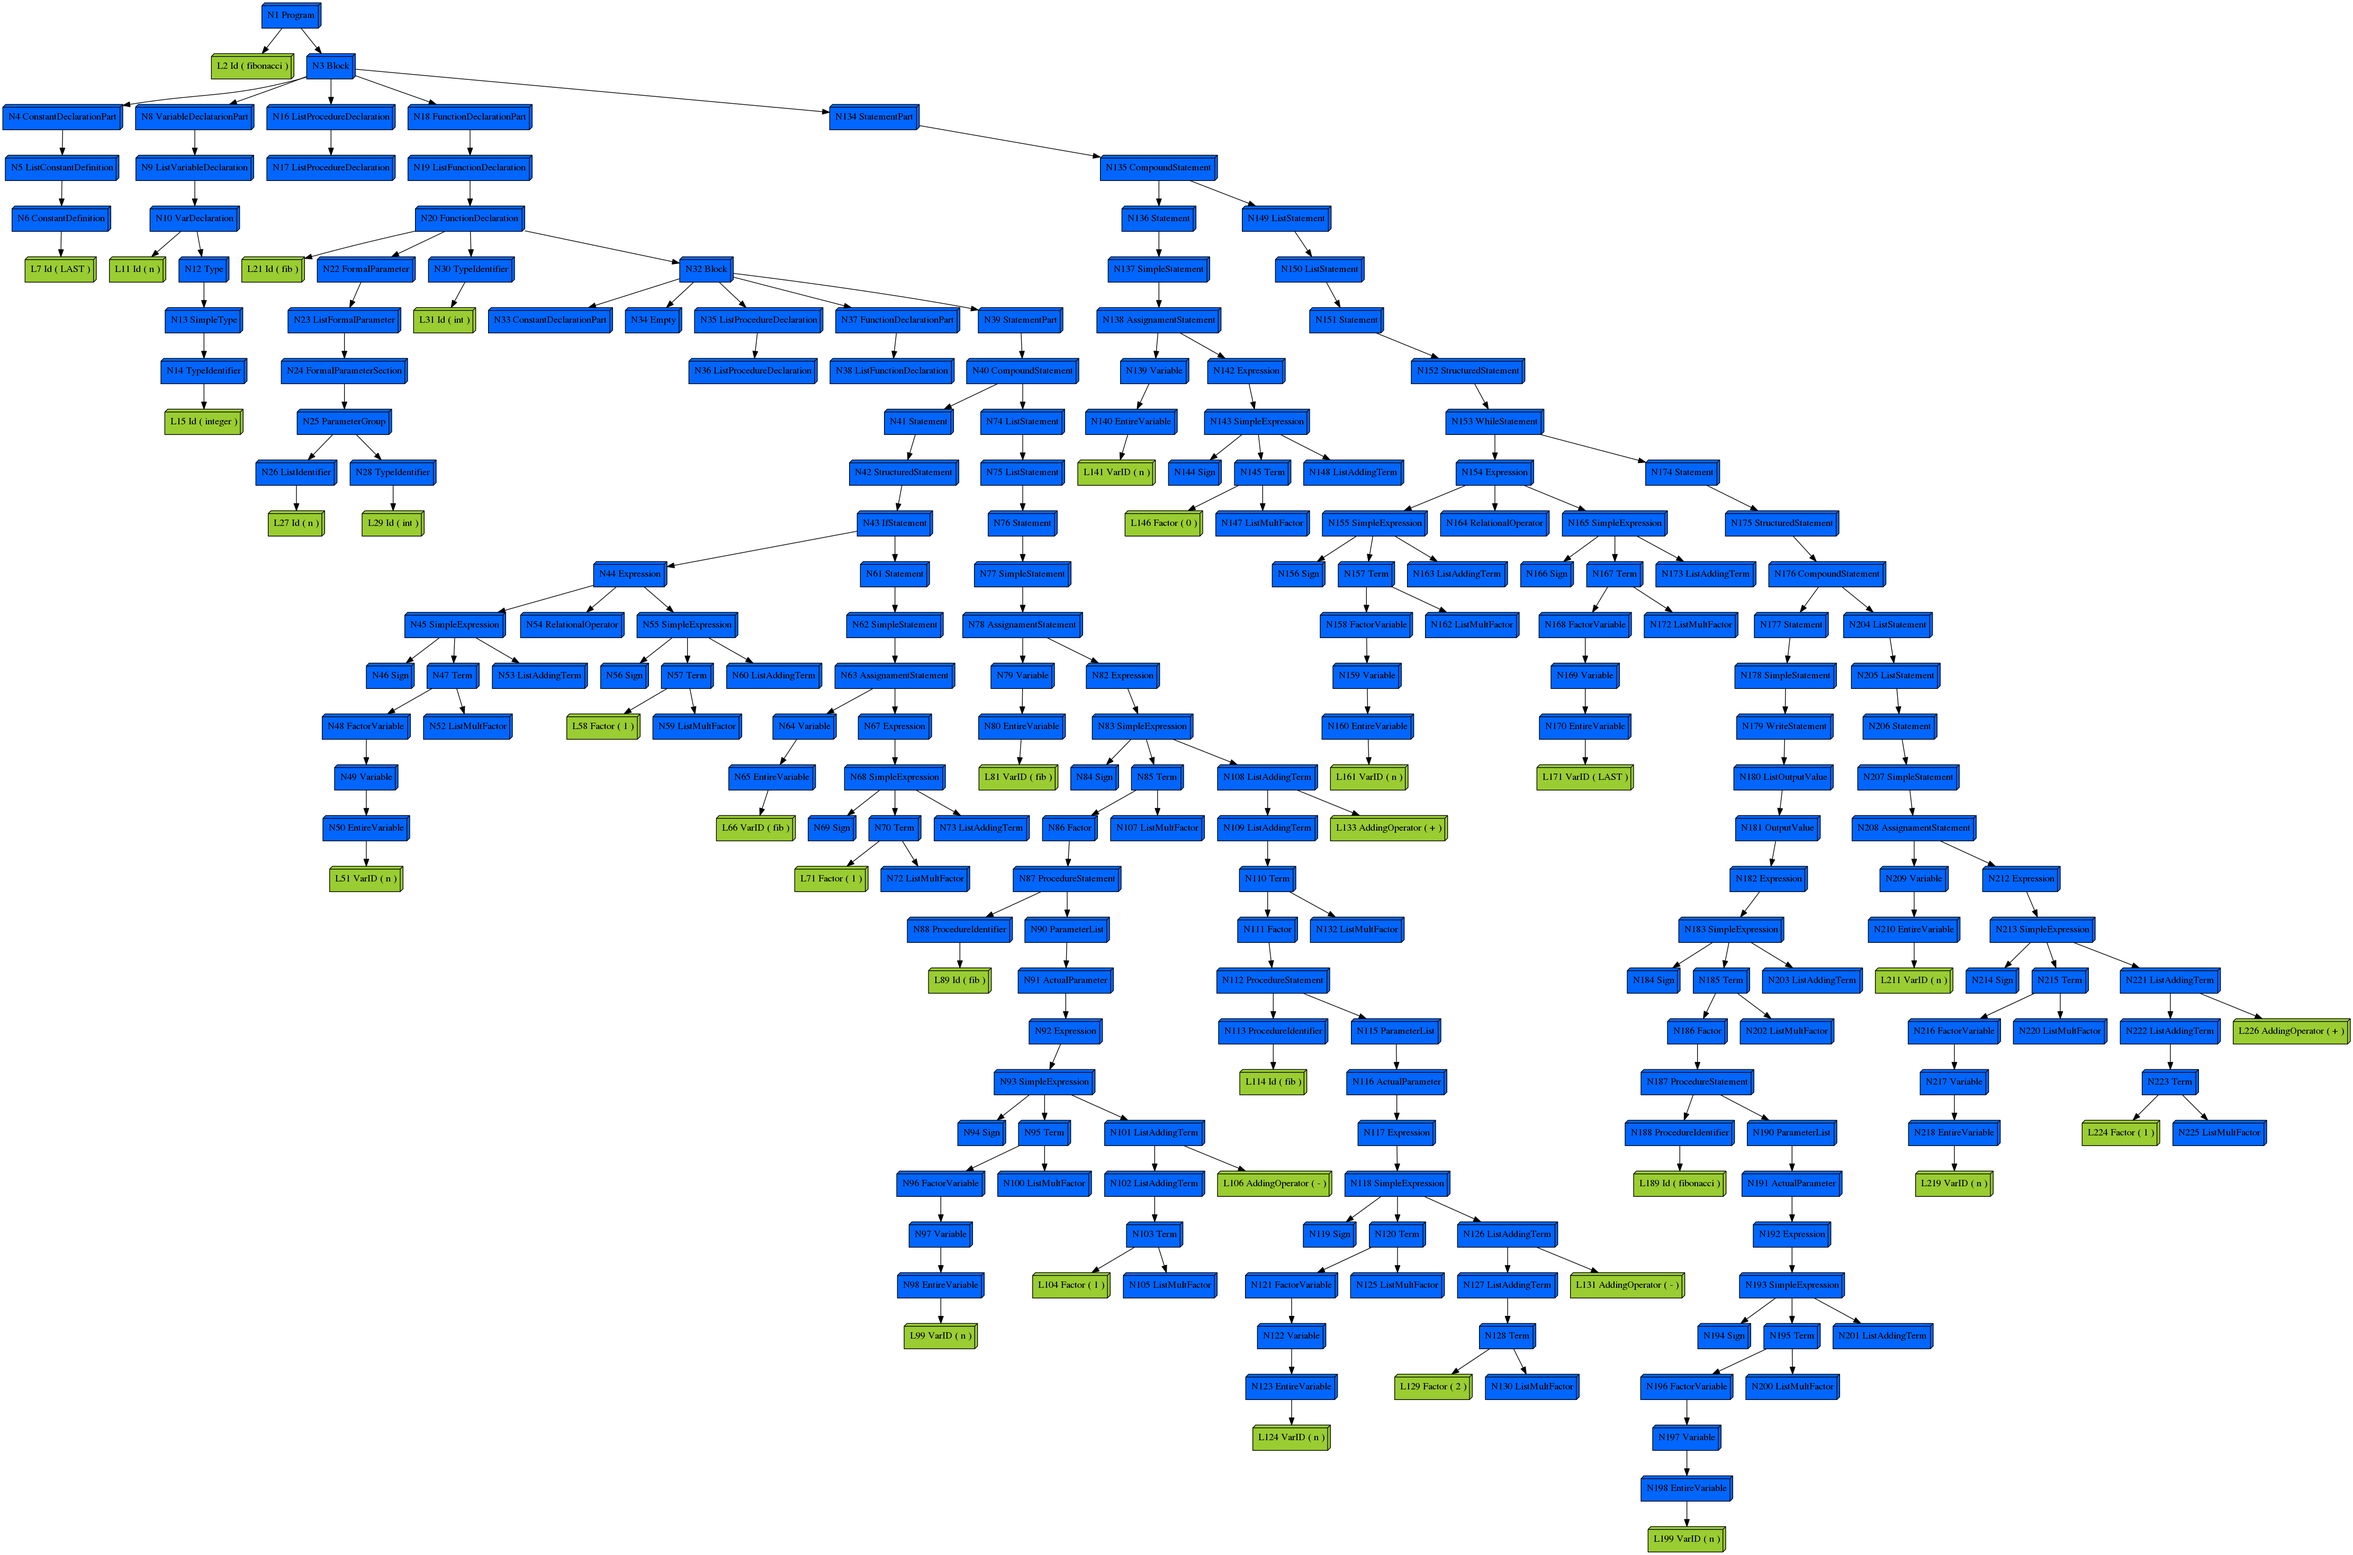
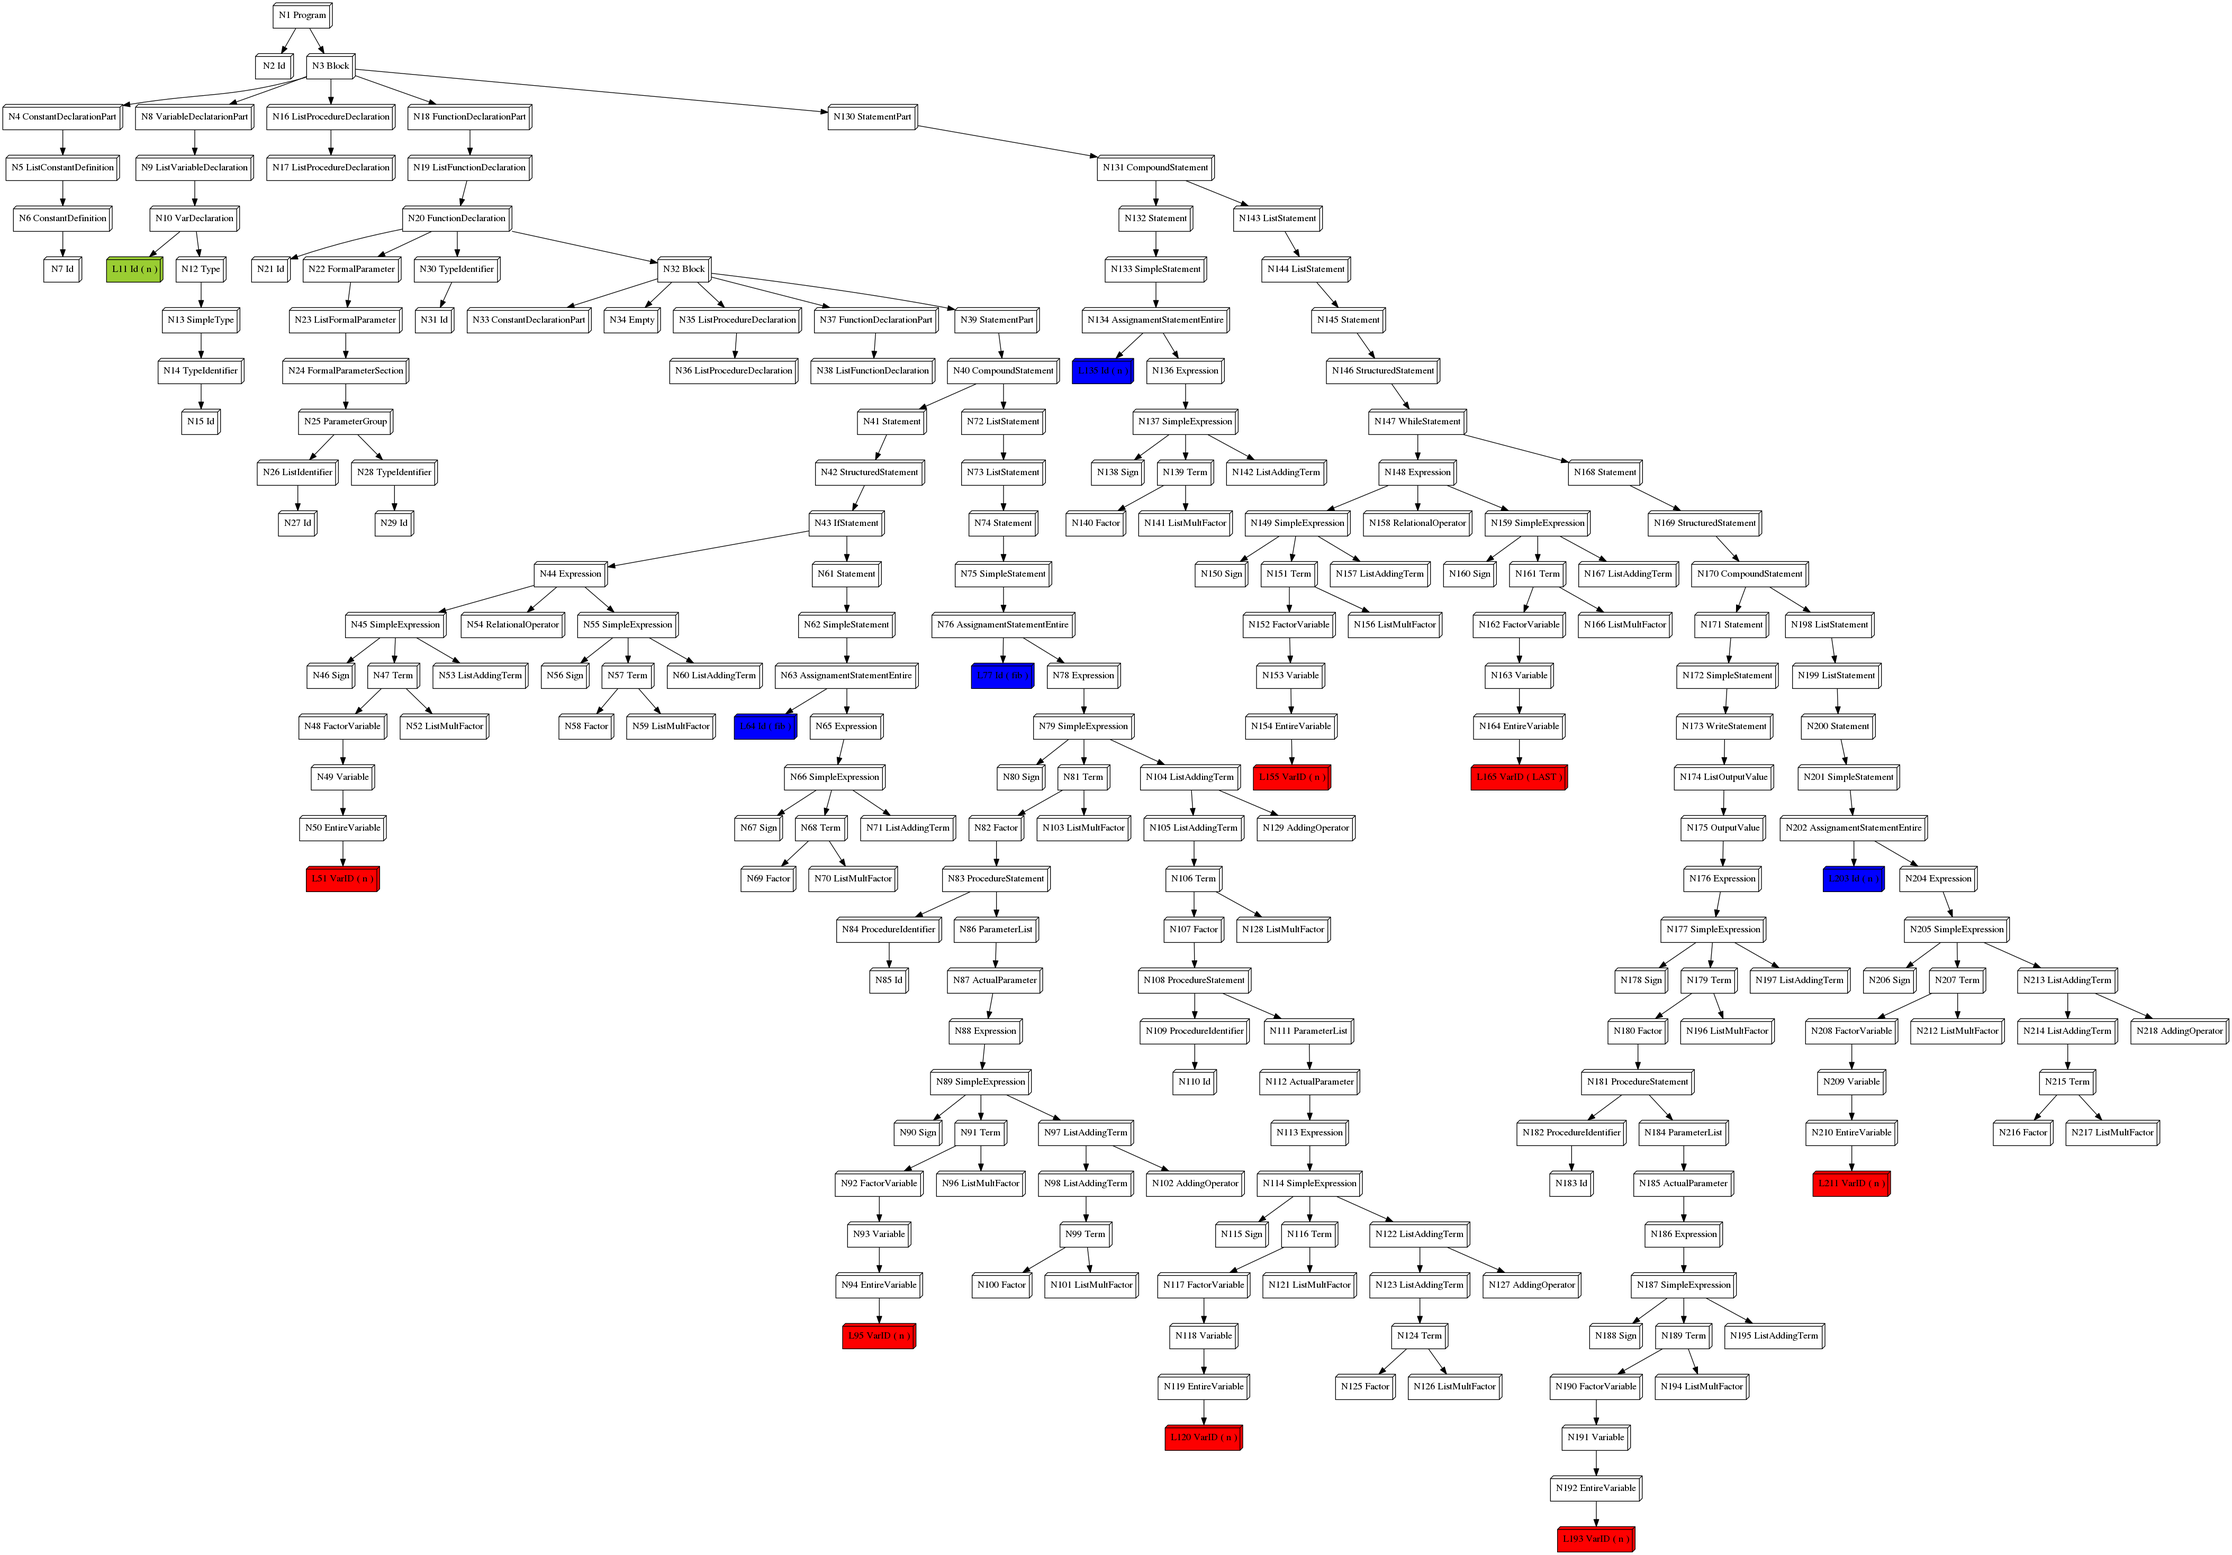
Avances en AST

Changed region(s): [[0.0, 0.0, 1.0, 1.0], [0.3417, 0.0619, 0.4038, 0.0929]]

diff --git a/parser.py b/parser.py
@@ -75,6 +75,7 @@ class PasParser(Parser):
 
     @_('identifier COLON type')
     def var_declaration(self,p):
+        p.identifier._leafDec = True
         return VarDeclaration(p.identifier,p.type,None)
 
     @_('list_identifier COLON type')
@@ -215,9 +216,13 @@ class PasParser(Parser):
     def statement(self,p):
         return Statement(p.structured_statement)
 
-    @_('assignament_statement')
+    @_('assignament_statement_entire')
     def simple_statement(self,p):
-        return SimpleStatement(p.assignament_statement)
+        return SimpleStatement(p.assignament_statement_entire)
+
+    @_('assignament_statement_array')
+    def simple_statement(self,p):
+        return SimpleStatement(p.assignament_statement_array)
 
     @_('procedure_statement')
     def simple_statement(self,p):
@@ -231,9 +236,14 @@ class PasParser(Parser):
     def simple_statement(self,p):
         return SimpleStatement(p.write_statement)
 
-    @_('variable ASSIGN expression')
-    def assignament_statement(self,p):
-        return AssignamentStatement(p.variable,p.expression)
+    @_('identifier ASSIGN expression')
+    def assignament_statement_entire(self,p):
+        p.identifier._leafBlue = True
+        return AssignamentStatementEntire(p.identifier,p.expression)
+
+    @_('indexed_variable ASSIGN expression')
+    def assignament_statement_array(self,p):
+        return AssignamentStatementArray(p.indexed_variable,p.expression)
 
     @_('procedure_identifier LPAR parameter_list RPAR')
     def procedure_statement(self,p):
@@ -363,11 +373,11 @@ class PasParser(Parser):
 
     @_('INTCONST')
     def factor(self,p):
-        return Factor(p[0],_leaf = True)
+        return Factor(p[0])
 
     @_('CHARCONST')
     def factor(self,p):
-        return Factor(p[0],_leaf = True)
+        return Factor(p[0])
 
     @_('LPAR expression RPAR')
     def factor(self,p):
@@ -407,11 +417,11 @@ class PasParser(Parser):
 
     @_('PLUS')
     def sign(self,p):
-        return Sign(p[0],_leaf = True)
+        return Sign(p[0])
 
     @_('MINUS')
     def sign(self,p):
-        return Sign(p[0],_leaf = True)
+        return Sign(p[0])
 
     @_('empty')
     def sign(self,p):
@@ -419,27 +429,27 @@ class PasParser(Parser):
 
     @_('PLUS')
     def adding_operator(self,p):
-        return AddingOperator(p[0],_leaf = True)
+        return AddingOperator(p[0])
 
     @_('MINUS')
     def adding_operator(self,p):
-        return AddingOperator(p[0],_leaf = True)
+        return AddingOperator(p[0])
 
     @_('OR')
     def adding_operator(self,p):
-        return AddingOperator(p[0],_leaf = True)
+        return AddingOperator(p[0])
 
     @_('TIMES')
     def multiplying_operator(self,p):
-        return MultiplyingOperator(p[0],_leaf = True)
+        return MultiplyingOperator(p[0])
 
     @_('DIV')
     def multiplying_operator(self,p):
-        return MultiplyingOperator(p[0],_leaf = True)
+        return MultiplyingOperator(p[0])
 
     @_('AND')
     def multiplying_operator(self,p):
-        return MultiplyingOperator(p[0],_leaf = True)
+        return MultiplyingOperator(p[0])
 
     @_('entire_variable')
     def variable(self,p):
@@ -459,13 +469,14 @@ class PasParser(Parser):
 
     @_('variable_identifier')
     def entire_variable(self,p):
+        p.variable_identifier._leafRed = True
         return EntireVariable(p.variable_identifier)
 
     @_('ID')
     def variable_identifier(self,p):
         line = p.lineno
         index = p.index
-        return VarID(p[0],_leaf = True)
+        return VarID(p[0])
 
     @_('ID')
     def identifier(self,p):

diff --git a/astobjects.py b/astobjects.py
@@ -16,10 +16,10 @@ class AST(object):
         if(len(kwargs)!=0):
             for name,value in kwargs.items():
                 setattr(self,name,value)
-        else:
-            setattr(self,"_leaf",False)
-        if not self._fields:
-            del self
+        setattr(self,"_leafDec",False)
+        setattr(self,"_leafRed",False)
+        setattr(self,"_leafBlue",False)
+        setattr(self,"_leaf",False)
 
     def pprint(self):
         for depth, node in flatten(self):
@@ -144,8 +144,11 @@ class Statement(AST):
 class SimpleStatement(AST):
     _fields = ['statement']
 
-class AssignamentStatement(AST):
+class AssignamentStatementArray(AST):
     _fields = ['variable','expression']
+
+class AssignamentStatementEntire(AST):
+    _fields = ['identifier','expression']
 
 class ProcedureStatement(AST):
     _fields = ['procedure_identifier','parameter_list']
@@ -334,8 +337,14 @@ class DotVisitor():
 
     def visit (self, node):
         if node:
-            if(node._leaf):
-                newname=self.visit_leaf(node)
+            if(node._leafDec):
+                newname = self.visit_leafDec(node)
+            elif(node._leafRed):
+                newname = self.visit_leafRed(node)
+            elif(node._leafBlue):
+                newname = self.visit_leafBlue(node)
+            elif(node._leaf):
+                newname = self.visit_leaf(node)
             else:
                 method = 'visit_' + node.__class__.__name__
                 visitor = getattr(self, method, self.visit_non_leaf)
@@ -363,7 +372,7 @@ class DotVisitor():
 
     def visit_non_leaf(self,node):
         string= "N%d %s" % (self.ID(), node.__class__.__name__)
-        name=pydot.Node(string,shape='box3d', style="filled", fillcolor="#0066ff")
+        name=pydot.Node(string,shape='box3d', style="filled", fillcolor="#ffffff")
         for field in getattr(node,"_fields"):
             value = getattr(node,field,None)
             if isinstance(value,list):
@@ -381,9 +390,21 @@ class DotVisitor():
 
 
 
-    def visit_leaf(self, node):
+    def visit_leafBlue(self, node):
+        string = "L%d %s ( %s )" % (self.ID(), node.__class__.__name__, node.value)
+        return pydot.Node(string, shape='box3d',style="filled", fillcolor="#0000ff")
+
+    def visit_leafDec(self, node):
         string = "L%d %s ( %s )" % (self.ID(), node.__class__.__name__, node.value)
         return pydot.Node(string, shape='box3d',style="filled", fillcolor="#9ACD32")
+
+    def visit_leafRed(self, node):
+        string = "L%d %s ( %s )" % (self.ID(), node.__class__.__name__, node.value)
+        return pydot.Node(string, shape='box3d',style="filled", fillcolor="#fd0000")
+
+    def visit_leaf(self, node):
+        string = "L%d %s ( %s )" % (self.ID(), node.__class__.__name__, node.value)
+        return pydot.Node(string, shape='box3d',style="filled", fillcolor="#ffffff")
 
 '''
 class DotVisitor(NodeVisitor):
